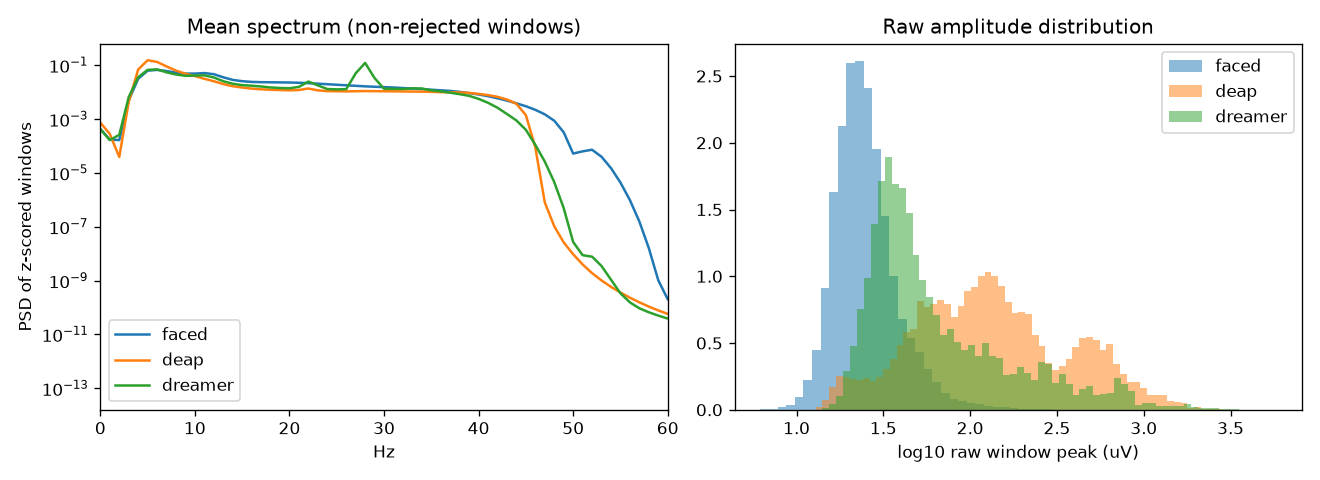
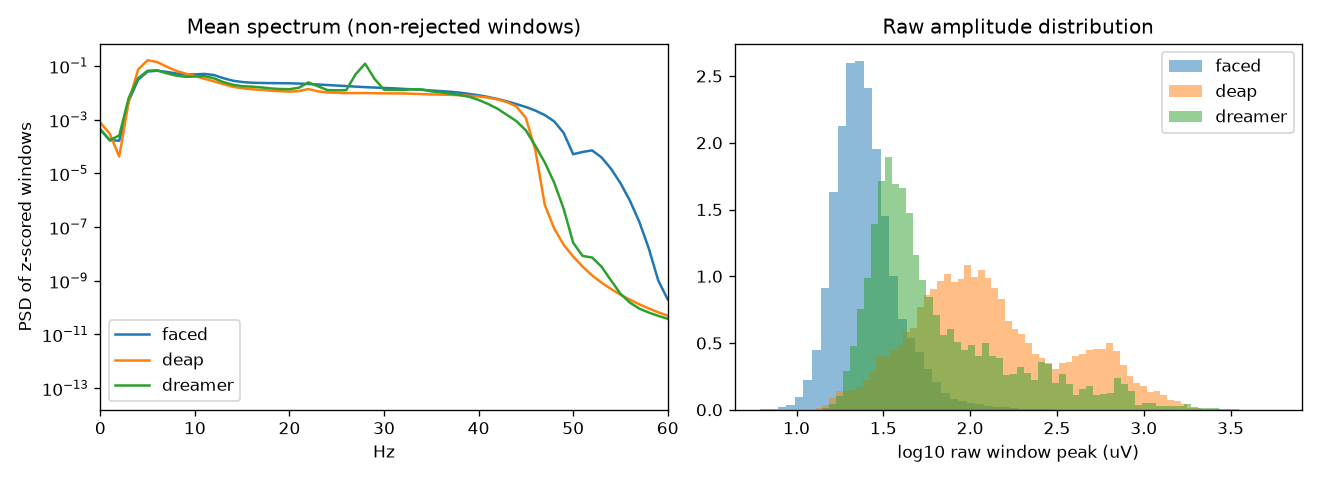
Add all 32 DEAP subjects, EEGPT encoder, splits and embedding scripts
- DEAP: all 32 subjects now on disk; configs, docs, QC report and tests
  updated (19,200 windows; labels from participant_ratings.xls)
- EEGPT frozen encoder wrapper, requirements doc and tests; model config
  points to the large 4E checkpoint (2048-d embeddings)
- Subject-wise split generation, embedding extraction and linear probe scripts
- Ignore third_party/ and *.ckpt

diff --git a/scripts/extract_embeddings.py b/scripts/extract_embeddings.py
@@ -1,0 +1,43 @@
+"""Phase 3.2: EEGPT embeddings -> data/embeddings/<dataset>_12ch.h5 (row-aligned with windows_12ch.h5).
+
+Run: .venv/bin/python -E -P scripts/extract_embeddings.py faced --scale 0.01 [--device cpu] [--limit N]
+Resumable: re-running continues from the last completed batch. Embedding stored as (N, 4, 512) float32.
+"""
+import argparse, os, sys, time, json
+import numpy as np, h5py, torch
+ROOT = os.path.dirname(os.path.dirname(os.path.abspath(__file__)))
+sys.path.insert(0, os.path.join(ROOT, "src"))
+from hcbm.utils.config import load_yaml_config  # noqa: E402
+from hcbm.models.eegpt_encoder import EEGPTEncoder  # noqa: E402
+
+ap = argparse.ArgumentParser()
+ap.add_argument("dataset"); ap.add_argument("--scale", type=float, required=True, help="multiplier applied to z-scored windows")
+ap.add_argument("--device", default="cpu"); ap.add_argument("--bs", type=int, default=64); ap.add_argument("--limit", type=int, default=0)
+ap.add_argument("--tag", default="")
+a = ap.parse_args()
+paths = load_yaml_config(os.path.join(ROOT, "configs/paths.yaml"))
+src = os.path.join(ROOT, f"data/processed/{a.dataset}/windows_12ch.h5")
+out = os.path.join(ROOT, f"data/embeddings/{a.dataset}_12ch{a.tag}.h5"); os.makedirs(os.path.dirname(out), exist_ok=True)
+torch.manual_seed(42)
+with h5py.File(src, "r") as f:
+    ch = [c.decode() for c in f["ch_names"][:]]; N = f["X"].shape[0] if not a.limit else min(a.limit, f["X"].shape[0])
+    enc = EEGPTEncoder(os.path.join(ROOT, paths["eegpt"]["repo"]), os.path.join(ROOT, paths["eegpt"]["checkpoint"]), ch, 1024, a.scale, a.device)
+    done = 0
+    if os.path.exists(out):
+        with h5py.File(out, "r") as g:
+            same = g.attrs.get("scale") == a.scale and g.attrs.get("ckpt_sha256") == enc.ckpt_sha256 and g.attrs.get("n") == N
+            done = int(g.attrs["done"]) if same else 0
+    mode = "r+" if done else "w"
+    with h5py.File(out, mode) as g:
+        if not done:
+            g.create_dataset("emb", shape=(N, 4, 512), dtype="float32", chunks=(min(256, N), 4, 512))
+            g.attrs.update(scale=a.scale, ckpt_sha256=enc.ckpt_sha256, n=N, done=0, src=os.path.relpath(src, ROOT))
+            for k in ("subject_id", "trial_id", "window_idx", "reject"):
+                g.create_dataset(k, data=f[k][:N])
+        t0 = time.time()
+        for i in range(done, N, a.bs):
+            j = min(N, i + a.bs)
+            g["emb"][i:j] = enc(f["X"][i:j]).cpu().numpy(); g.attrs["done"] = j; g.flush()
+            el = time.time() - t0
+            print(f"{j}/{N}  {el:.0f}s  ETA {el / max(j - done, 1) * (N - j):.0f}s", flush=True)
+print("saved", out)

diff --git a/src/hcbm/models/eegpt_encoder.py b/src/hcbm/models/eegpt_encoder.py
@@ -1,0 +1,55 @@
+"""Frozen EEGPT target-encoder wrapper (official BINE022/EEGPT code, cloned to third_party/EEGPT).
+
+Input : (B, 12, 1024) float, 256 Hz, 4 s, channels in the order of `ch_names` (all must be in EEGPT's vocabulary).
+Output: (B, 4, 512) = mean over the 16 time patches of EEGPT's 4 summary tokens (flatten -> 2048-d).
+"""
+import hashlib
+import importlib.util
+import os
+from functools import partial
+
+import numpy as np
+import torch
+import torch.nn as nn
+
+ENC_CFG = dict(patch_size=64, embed_num=4, embed_dim=512, depth=8, num_heads=8, mlp_ratio=4.0, drop_rate=0.0,
+               attn_drop_rate=0.0, drop_path_rate=0.0, init_std=0.02, qkv_bias=True)
+
+
+def _load_model_module(repo_dir):
+    path = os.path.join(repo_dir, "downstream/Modules/models/EEGPT_mcae.py")  # same module the official linear-probe scripts use
+    spec = importlib.util.spec_from_file_location("eegpt_mcae", path)
+    mod = importlib.util.module_from_spec(spec)
+    spec.loader.exec_module(mod)
+    return mod
+
+
+def sha256(path, block=1 << 20):
+    h = hashlib.sha256()
+    with open(path, "rb") as f:
+        for b in iter(lambda: f.read(block), b""):
+            h.update(b)
+    return h.hexdigest()
+
+
+class EEGPTEncoder(nn.Module):
+    def __init__(self, repo_dir, ckpt_path, ch_names, n_samples=1024, input_scale=1.0, device="cpu", load_weights=True):
+        super().__init__()
+        mod = _load_model_module(repo_dir)
+        self.enc = mod.EEGTransformer(img_size=[len(ch_names), n_samples], norm_layer=partial(nn.LayerNorm, eps=1e-6), **ENC_CFG)
+        self.chan_ids = self.enc.prepare_chan_ids(ch_names)         # asserts every name is in EEGPT's vocabulary
+        self.input_scale = float(input_scale)
+        self.ckpt_sha256 = None
+        if load_weights:
+            ck = torch.load(ckpt_path, map_location="cpu", weights_only=False)
+            sd = {k[len("target_encoder."):]: v for k, v in ck["state_dict"].items() if k.startswith("target_encoder.")}
+            self.enc.load_state_dict(sd, strict=True)               # strict: any mismatch is a hard error
+            self.ckpt_sha256 = sha256(ckpt_path)
+        self.eval().requires_grad_(False).to(device)
+        self.device = device
+
+    @torch.no_grad()
+    def forward(self, x):
+        x = torch.as_tensor(x, dtype=torch.float32, device=self.device) * self.input_scale
+        z = self.enc(x, self.chan_ids.to(self.device))              # (B, N=16, 4, 512)
+        return z.mean(dim=1)                                        # (B, 4, 512)

diff --git a/scripts/probe.py b/scripts/probe.py
@@ -1,0 +1,37 @@
+"""Phase 3.4 / Gate 3: logistic-regression probe on frozen FACED embeddings (train/val subjects only; test group never read).
+
+Run: .venv/bin/python -E -P scripts/probe.py data/embeddings/faced_12ch.h5 -> reports/probe_<name>.json
+Targets: binary valence (>3.5), binary arousal (>3.5), coarse 7-class. Metrics: accuracy + macro-F1 vs majority baseline,
+mean +- std over the 5 subject-wise folds. Features: 2048-d (4x512) standardised.
+"""
+import json, os, sys
+import h5py, numpy as np
+from sklearn.linear_model import LogisticRegression
+from sklearn.metrics import f1_score
+from sklearn.preprocessing import StandardScaler
+ROOT = os.path.dirname(os.path.dirname(os.path.abspath(__file__)))
+emb_path = sys.argv[1]
+sp = json.load(open(os.path.join(ROOT, "data/processed/faced/splits.json")))
+with h5py.File(emb_path) as g, h5py.File(os.path.join(ROOT, "data/processed/faced/windows_12ch.h5")) as w:
+    n = g["emb"].shape[0]; done = int(g.attrs["done"]); assert done == n, f"embedding incomplete {done}/{n}"
+    E = g["emb"][:].reshape(n, -1); sub = w["subject_id"][:n].astype(str); rej = w["reject"][:n]
+    L = {k: w["labels"][k][:n] for k in ("valence_raw", "arousal_raw", "coarse")}
+    assert (w["subject_id"][:n] == g["subject_id"][:]).all(), "rows not aligned"
+    scale = float(g.attrs["scale"])
+test = set(sp["test"]); keep = ~rej & ~np.isin(sub, list(test))
+T = {"valence": (L["valence_raw"] > 3.5).astype(int), "arousal": (L["arousal_raw"] > 3.5).astype(int), "coarse7": L["coarse"].astype(int)}
+res = {}
+for name, y in T.items():
+    accs, f1s, base = [], [], []
+    for fold in sp["folds"]:
+        va = keep & np.isin(sub, fold); tr = keep & ~np.isin(sub, fold)
+        if va.sum() == 0 or tr.sum() == 0: continue
+        sc = StandardScaler().fit(E[tr]); clf = LogisticRegression(max_iter=300, C=0.1).fit(sc.transform(E[tr]), y[tr])
+        p = clf.predict(sc.transform(E[va]))
+        accs.append((p == y[va]).mean()); f1s.append(f1_score(y[va], p, average="macro"))
+        base.append((y[va] == np.bincount(y[tr]).argmax()).mean())
+    res[name] = dict(acc=[float(np.mean(accs)), float(np.std(accs))], macro_f1=[float(np.mean(f1s)), float(np.std(f1s))],
+                     majority_acc=float(np.mean(base)), chance_f1=1.0 / len(np.unique(y)), folds=len(accs))
+    print(name, res[name], flush=True)
+out = os.path.join(ROOT, "reports", f"probe_{os.path.basename(emb_path).replace('.h5', '')}.json")
+json.dump(dict(embedding=emb_path, scale=scale, results=res), open(out, "w"), indent=1)

diff --git a/tests/test_eegpt_encoder.py b/tests/test_eegpt_encoder.py
@@ -1,0 +1,26 @@
+import os
+import numpy as np
+import pytest
+
+REPO = "third_party/EEGPT"
+pytestmark = pytest.mark.skipif(not os.path.isdir(REPO), reason="EEGPT repo not cloned")
+
+
+def _enc():
+    from hcbm.models.eegpt_encoder import EEGPTEncoder
+    from hcbm.utils.config import load_yaml_config
+    ch = load_yaml_config("configs/protocol.yaml")["shared_channels"]
+    return EEGPTEncoder(REPO, None, ch, 1024, 1.0, "cpu", load_weights=False), ch
+
+
+def test_shapes_vocab_determinism():
+    import torch
+    enc, ch = _enc()
+    assert enc.chan_ids.shape == (1, 12)
+    x = np.random.default_rng(0).normal(size=(3, 12, 1024)).astype("float32")
+    a, b = enc(x), enc(x)
+    assert a.shape == (3, 4, 512) and torch.isfinite(a).all()
+    assert torch.equal(a, b)
+    assert not any(p.requires_grad for p in enc.parameters())
+    n = sum(p.numel() for p in enc.parameters())
+    assert 20e6 < n < 30e6, n          # 25.3M with the official probe config (README says "10M"; strict ckpt load is the real check)

diff --git a/scripts/qc_cross_dataset.py b/scripts/qc_cross_dataset.py
@@ -42,7 +42,7 @@ for i, d in enumerate(DS):
     F, f, p = band_feats(x["X"][pick]); spec[d] = p.mean((0, 1))
     feats.append(F); groups += [f"{d}_{s}" for s in x["sub"][pick]]; dsl += [i] * len(pick)
 
-lines += ["", "Expected window counts: FACED 119 subjects x 28 clips x 7 = 23,324 (4 subjects excluded, D1); DEAP 16 x 40 x 15 = 9,600 (D2); DREAMER 23 x 18 x 15 = 6,210.", ""]
+lines += ["", "Expected window counts: FACED 119 subjects x 28 clips x 7 = 23,324 (4 subjects excluded, D1); DEAP 32 x 40 x 15 = 19,200; DREAMER 23 x 18 x 15 = 6,210.", ""]
 lines += ["## Per-subject noise flags (raw window peak, uV, before z-score)", "",
           "Subject median peak and rejection rate; subjects flagged if rejection > 20% or median peak > 300 uV. **Flagged subjects are kept (no post-hoc exclusion on the zero-shot corpora); they are reported for sensitivity analyses.**", "",
           "| dataset | subject | median peak uV | rejected % | flag |", "|---|---|---|---|---|"]

diff --git a/scripts/make_splits.py b/scripts/make_splits.py
@@ -1,0 +1,14 @@
+"""Write data/processed/faced/splits.json (hard rule: subject-wise, fixed before any training)."""
+import json, os, sys
+import h5py, numpy as np
+ROOT = os.path.dirname(os.path.dirname(os.path.abspath(__file__)))
+sys.path.insert(0, os.path.join(ROOT, "src"))
+from hcbm.train.splits import make_splits, assert_disjoint  # noqa: E402
+from hcbm.utils.config import load_yaml_config  # noqa: E402
+cfg = load_yaml_config(os.path.join(ROOT, "configs/protocol.yaml"))
+with h5py.File(os.path.join(ROOT, "data/processed/faced/windows_12ch.h5")) as f:
+    subs = f["subject_id"][:].astype(str)
+sp = make_splits(subs, cfg["split_seeds"]["default"], cfg["split_seeds"]["held_out_test_ratio"], cfg["split_seeds"]["n_folds"])
+assert_disjoint(sp)
+json.dump(sp, open(os.path.join(ROOT, "data/processed/faced/splits.json"), "w"), indent=1)
+print("test", len(sp["test"]), "folds", [len(x) for x in sp["folds"]])

diff --git a/src/hcbm/train/splits.py b/src/hcbm/train/splits.py
@@ -1,0 +1,19 @@
+"""Subject-wise splits: fixed held-out test group + K folds over the remaining subjects."""
+import numpy as np
+
+
+def make_splits(subjects, seed=42, test_ratio=0.20, n_folds=5):
+    subs = np.array(sorted(set(subjects)))
+    rng = np.random.default_rng(seed)
+    perm = rng.permutation(subs)
+    n_test = int(round(len(subs) * test_ratio))
+    test, rest = sorted(perm[:n_test].tolist()), perm[n_test:]
+    folds = [sorted(f.tolist()) for f in np.array_split(rest, n_folds)]       # each fold = validation subjects
+    return dict(seed=seed, test=test, folds=folds)
+
+
+def assert_disjoint(splits):
+    seen = set(splits["test"])
+    for f in splits["folds"]:
+        assert not seen & set(f), "subject appears in two partitions"
+        seen |= set(f)

diff --git a/tests/test_processed_data.py b/tests/test_processed_data.py
@@ -6,7 +6,7 @@ from hcbm.io import schema
 from hcbm.utils.config import load_yaml_config
 
 CFG = load_yaml_config("configs/protocol.yaml")
-EXPECT = {"faced": 119 * 28 * 7, "deap": 16 * 40 * 15, "dreamer": 23 * 18 * 15}
+EXPECT = {"faced": 119 * 28 * 7, "deap": 32 * 40 * 15, "dreamer": 23 * 18 * 15}
 
 
 @pytest.mark.parametrize("name", list(EXPECT))

diff --git a/docs/DEVIATIONS.md b/docs/DEVIATIONS.md
@@ -5,7 +5,7 @@ All entries dated 16 Oct 2026 and made **before any model training or embedding 
 | ID | Decision | Reason / evidence |
 |----|----------|-------------------|
 | D1 | Exclude FACED subjects sub004, sub023, sub030, sub056 | Amplitude artifacts surviving ICA (std 527 / 26,010 / 5,271 / 526 µV vs median 9 µV; up to ±330 mV). `reports/faced_inspection.md`. sub003 (368 µV) and sub064 (169 µV) are kept but rely on window-level rejection; revisit only if the rejection rate is extreme (>30% windows). |
-| D2 | DEAP: use s01-s16 only (16 of 32 on disk), labels from `participant_ratings.xls` matched on Experiment_id | `.dat` labels corrupted on 198/640 trials (V/A reflected to 9-x). Cross-corpus n=16 subjects; CIs will be wider; stated as limitation. |
+| D2 | DEAP: all 32 subjects (originally 16 on disk; remaining 16 added 16 Oct 2026). Labels from `participant_ratings.xls` matched on Experiment_id, never from the `.dat` files | `.dat` labels corrupted on 439/1280 trials (all 32 subjects): V/A reflected to 9-x, giving impossible 0 ratings and zero HVHA trials. |
 | D3 | Dominance: category-prototype pseudo-label, masked loss, weight <= 0.25, reported as exploratory | FACED has no dominance item. Validated only on DEAP/DREAMER real ratings. Not derived from valence/arousal (circular). |
 | D4 | Binarisation: "high" = rating > midpoint (FACED 3.5 on 0-7; DEAP 5 on 1-9; DREAMER 3 on 1-5); exact ties dropped from binary metrics; Spearman reported alongside | Fixed before results; avoids threshold shopping. |
 | D5 | Coarse 7-class set: happy (amusement, inspiration, joy), tenderness, anger, fear, disgust, sadness, neutral | Surprise absent in FACED. Class sizes in clips: happy 9, neutral 4, others 3 -> macro-F1 primary metric. |
@@ -15,5 +15,5 @@ All entries dated 16 Oct 2026 and made **before any model training or embedding 
 Open items: Level-3 appraisal table (Phase 4, needs sign-off); DREAMER clip->emotion table not on disk; EEGPT checkpoint and evaluator recruitment (Phase 0).
 
 | D8 | Artifact rule is subject-relative: reject window if peak > max(5 x subject median window peak, 100 uV), identical for all datasets; raw peak stored per window (`labels/peak_uv`) | A fixed 150 uV rule rejected 42% of DEAP windows (s09 99.5%, s11 100%) because typical raw window peak varies 20-860 uV across DEAP subjects. Decided after seeing preprocessing QC only, before any embedding/training. Rejected windows are flagged (`reject`), not dropped, so rows stay aligned. |
-| D9 | No post-hoc subject exclusion on DEAP/DREAMER; noisy subjects (DEAP s02 s04 s09 s11, DREAMER d15 d20 d21) are flagged in `reports/qc.md` for sensitivity analysis | Zero-shot corpora must not be filtered using outcomes; amplitude-only flags are reported instead. |
+| D9 | No post-hoc subject exclusion on DEAP/DREAMER; noisy subjects (see `reports/qc.md`) are flagged in `reports/qc.md` for sensitivity analysis | Zero-shot corpora must not be filtered using outcomes; amplitude-only flags are reported instead. |
 | D10 | FACED 30 s -> 7 windows; the first 2 s of each clip are discarded (filter edge effects, mood still building) | Remainder must go somewhere; keeps the end of the clip where the emotion is strongest. |

diff --git a/reports/qc.md b/reports/qc.md
@@ -7,10 +7,10 @@ Generated by `scripts/qc_cross_dataset.py` from `data/processed/*/windows_12ch.h
 | dataset | subjects | windows | rejected | rejected % | windows/subject (min-max) | samples | channels |
 |---|---|---|---|---|---|---|---|
 | faced | 119 | 23324 | 130 | 0.56 | 196-196 | 1024 | 12 |
-| deap | 16 | 9600 | 40 | 0.42 | 600-600 | 1024 | 12 |
+| deap | 32 | 19200 | 67 | 0.35 | 600-600 | 1024 | 12 |
 | dreamer | 23 | 6210 | 393 | 6.33 | 270-270 | 1024 | 12 |
 
-Expected window counts: FACED 119 subjects x 28 clips x 7 = 23,324 (4 subjects excluded, D1); DEAP 16 x 40 x 15 = 9,600 (D2); DREAMER 23 x 18 x 15 = 6,210.
+Expected window counts: FACED 119 subjects x 28 clips x 7 = 23,324 (4 subjects excluded, D1); DEAP 32 x 40 x 15 = 19,200; DREAMER 23 x 18 x 15 = 6,210.
 
 ## Per-subject noise flags (raw window peak, uV, before z-score)
 
@@ -22,11 +22,15 @@ Subject median peak and rejection rate; subjects flagged if rejection > 20% or m
 | deap | s04 | 332 | 0.0 | FLAG |
 | deap | s09 | 429 | 0.0 | FLAG |
 | deap | s11 | 858 | 0.0 | FLAG |
+| deap | s17 | 614 | 0.0 | FLAG |
+| deap | s22 | 840 | 0.0 | FLAG |
+| deap | s24 | 617 | 0.0 | FLAG |
+| deap | s25 | 331 | 0.2 | FLAG |
 | dreamer | d15 | 36 | 25.2 | FLAG |
 | dreamer | d20 | 465 | 0.0 | FLAG |
 | dreamer | d21 | 41 | 22.6 | FLAG |
 
-Flagged subjects: faced 0/119, deap 4/16, dreamer 3/23
+Flagged subjects: faced 0/119, deap 8/32, dreamer 3/23
 
 ![spectra](figures/qc_spectra_amplitude.png)
 
@@ -35,18 +39,18 @@ Flagged subjects: faced 0/119, deap 4/16, dreamer 3/23
 | dataset | theta | alpha | gamma |
 |---|---|---|---|
 | faced | -3.11 +- 0.48 | -3.20 +- 0.44 | -4.98 +- 0.63 |
-| deap | -2.77 +- 0.93 | -3.49 +- 0.68 | -5.37 +- 0.93 |
-| dreamer | -3.76 +- 1.60 | -4.04 +- 1.68 | -5.52 +- 1.42 |
+| deap | -2.72 +- 0.98 | -3.42 +- 0.67 | -5.48 +- 0.95 |
+| dreamer | -3.79 +- 1.64 | -4.07 +- 1.72 | -5.55 +- 1.44 |
 
 ## Domain-shift check
 
-Logistic regression on 36 log band-power features (12 ch x theta/alpha/gamma) predicting the dataset of origin, balanced (<=4000 windows/dataset), subject-wise 5-fold CV. Chance = 0.333. **Accuracy = 0.640 +- 0.085** (folds: 0.675, 0.554, 0.775, 0.654, 0.545).
+Logistic regression on 36 log band-power features (12 ch x theta/alpha/gamma) predicting the dataset of origin, balanced (<=4000 windows/dataset), subject-wise 5-fold CV. Chance = 0.333. **Accuracy = 0.651 +- 0.033** (folds: 0.664, 0.710, 0.631, 0.633, 0.620).
 A value far above chance means the corpora are separable from band power alone (strong dataset shift); the paper must discuss this as a limitation of zero-shot cross-corpus transfer.
 
 ## Label distributions
 
 FACED coarse 7-class window counts: happy 7497, tenderness 2499, anger 2499, fear 2499, disgust 2499, sadness 2499, neutral 3332
 FACED valence>3.5: 43.2% ; arousal>3.5: 53.8%
-DEAP quadrants (LVLA, LVHA, HVLA, HVHA, tie): 2145, 2265, 2085, 2970, 135
-DEAP valence>5: 53.1% ; arousal>5: 54.7%
+DEAP quadrants (LVLA, LVHA, HVLA, HVHA, tie): 3900, 4410, 3825, 6585, 480
+DEAP valence>5: 55.3% ; arousal>5: 57.6%
 DREAMER valence>3: 39.4% (=3: 21.7%); arousal>3: 43.7% (=3: 28.7%)

diff --git a/docs/EEGPT_REQUIREMENTS.md b/docs/EEGPT_REQUIREMENTS.md
@@ -1,0 +1,21 @@
+# EEGPT requirements (Phase 2.7) — from the official repo, read 16 Oct 2026
+
+Source: https://github.com/BINE022/EEGPT, commit `ea7282f698c406cd423ccbedbe9960853761144c` (Apache-2.0), cloned to `third_party/EEGPT` (gitignored).
+Checkpoint: `eegpt_mcae_58chs_4s_large4E.ckpt` from the README's figshare link (`https://figshare.com/s/e37df4f8a907a866df4b`, path `Files/EEGPT/checkpoint/`). **Must be downloaded manually in a browser** (figshare blocks scripted downloads); place at `checkpoints/eegpt_mcae_58chs_4s_large4E.ckpt`. Record its sha256 in the embeddings file (done automatically).
+
+| Requirement | EEGPT | Our data | OK? |
+|---|---|---|---|
+| Sampling rate | 256 Hz | 256 Hz | yes |
+| Window | 4 s = 1024 samples (patch 64, stride 64 -> 16 time patches) | 4 s, 1024 | yes |
+| Channels | any subset of a fixed 62-name vocabulary (10-10 names, upper-case); ids passed as `chan_ids` in the SAME order as data rows | F7 F3 FC5 T7 P7 O1 O2 P8 T8 FC6 F4 F8, all in vocabulary (ids 7, 9, 17, 25, 43, 59, 61, 51, 33, 23, 13, 15) | yes |
+| `img_size` | `[n_channels, 1024]` (any n_channels works; checkpoint trained with 58) | [12, 1024] | yes |
+| Architecture (official linear-probe config) | embed_dim 512, embed_num (summary tokens) 4, depth 8, heads 8, patch 64 | same | yes |
+| Parameters | README: "10M"; this config counts **25.3M** (incl. channel embedding) | – | note: the "large4E" checkpoint may be the larger variant; strict state-dict load will confirm |
+| Output | `(B, 16 patches, 4 summary tokens, 512)` | we mean-pool patches -> **(B, 4, 512) = 2048-d** | **plan assumed 512-d: embedding_dim updated to 2048 (4 x 512)** |
+| Weights loading | `state_dict` keys prefixed `target_encoder.` (official probe scripts) | strict load in `EEGPTEncoder` | yes |
+| Amplitude scaling | **not specified**; pretraining pipeline feeds volts x 1e3 (i.e. mV); TUEG fine-tuning feeds uV / 100; downstream probe scripts feed raw uV | our windows are per-subject z-scored (unit std), physical units removed | **open: choose `input_scale` multiplier on FACED validation subjects only (candidates 0.01, 0.1, 1, 10); DEAP/DREAMER never used** |
+| Reference / filtering | not specified for the checkpoint | CAR over 12 ch, 4-45 Hz | note as a limitation |
+
+Preprocessing differences vs EEGPT's pretraining data (mixed 58-channel datasets): we use only 12 of 58 channels (no coverage of central/parietal midline channels) — Gate 3 probes whether the embedding still carries emotion signal.
+
+CPU cost measured with random weights: 64 windows in 2.2 s -> FACED (23,324 windows) ~13 min on CPU, once, cached.

diff --git a/reports/deap_dreamer_inspection.md b/reports/deap_dreamer_inspection.md
@@ -2,10 +2,10 @@
 Scripts: `scripts/inspect_deap.py`, `scripts/inspect_dreamer.py` (JSON alongside).
 
 ## DEAP
-- **Only 16 of 32 subjects present** (`s01..s16.dat`). `participant_ratings.xls` covers all 32. Cross-corpus n is 16 subjects, 640 trials (≈9,600 windows), not 19,200.
+- **All 32 subjects present** (`s01..s32.dat`, added after the first inspection, which saw only s01–s16). 1,280 trials, 19,200 windows.
 - Each file: `data (40,40,8064) float64`, `labels (40,4)`; 0 NaN; 0 flat channels; 128 Hz, 63 s (3 s baseline = 384 samples). EEG std median 17.9 µV; 50 Hz PSD ~1e-7 (already filtered/notched); DC ≈ 0.24 µV.
 - Trial order in `.dat` is **Experiment_id (video) order**, not presentation `Trial` order.
-- **`.dat` labels are corrupted**: 198/640 trials (all 16 subjects) differ from the official `participant_ratings.xls`; every mismatch is exactly valence/arousal → 9 − x, giving impossible 0 ratings (7 subjects) and zero HVHA trials. **Use the xls ratings (matched on Experiment_id) as the only label source.** Using xls: V>5 53.1%, A>5 54.7%; quadrants LVLA 148 / LVHA 152 / HVLA 142 / HVHA 198; 9 trials have an exact 5 (threshold-tie).
+- **`.dat` labels are corrupted**: 439/1,280 trials (all 32 subjects) differ from the official `participant_ratings.xls`; every mismatch is exactly valence/arousal → 9 − x, giving impossible 0 ratings (14 subjects) and zero HVHA trials. **Use the xls ratings (matched on Experiment_id) as the only label source.** Using xls: V>5 55.3%, A>5 57.6%; quadrants LVLA 274 / LVHA 298 / HVLA 269 / HVHA 439; 32 trials have an exact 5 (threshold-tie).
 - Channel names are not in files (Geneva order from the DEAP docs, assumed): all 12 shared channels present (indices F7=3, F3=2, FC5=4, T7=7, P7=11, O1=13, O2=31, P8=29, T8=25, FC6=21, F4=19, F8=20).
 - Peripheral channels 32–39 must be dropped.
 
